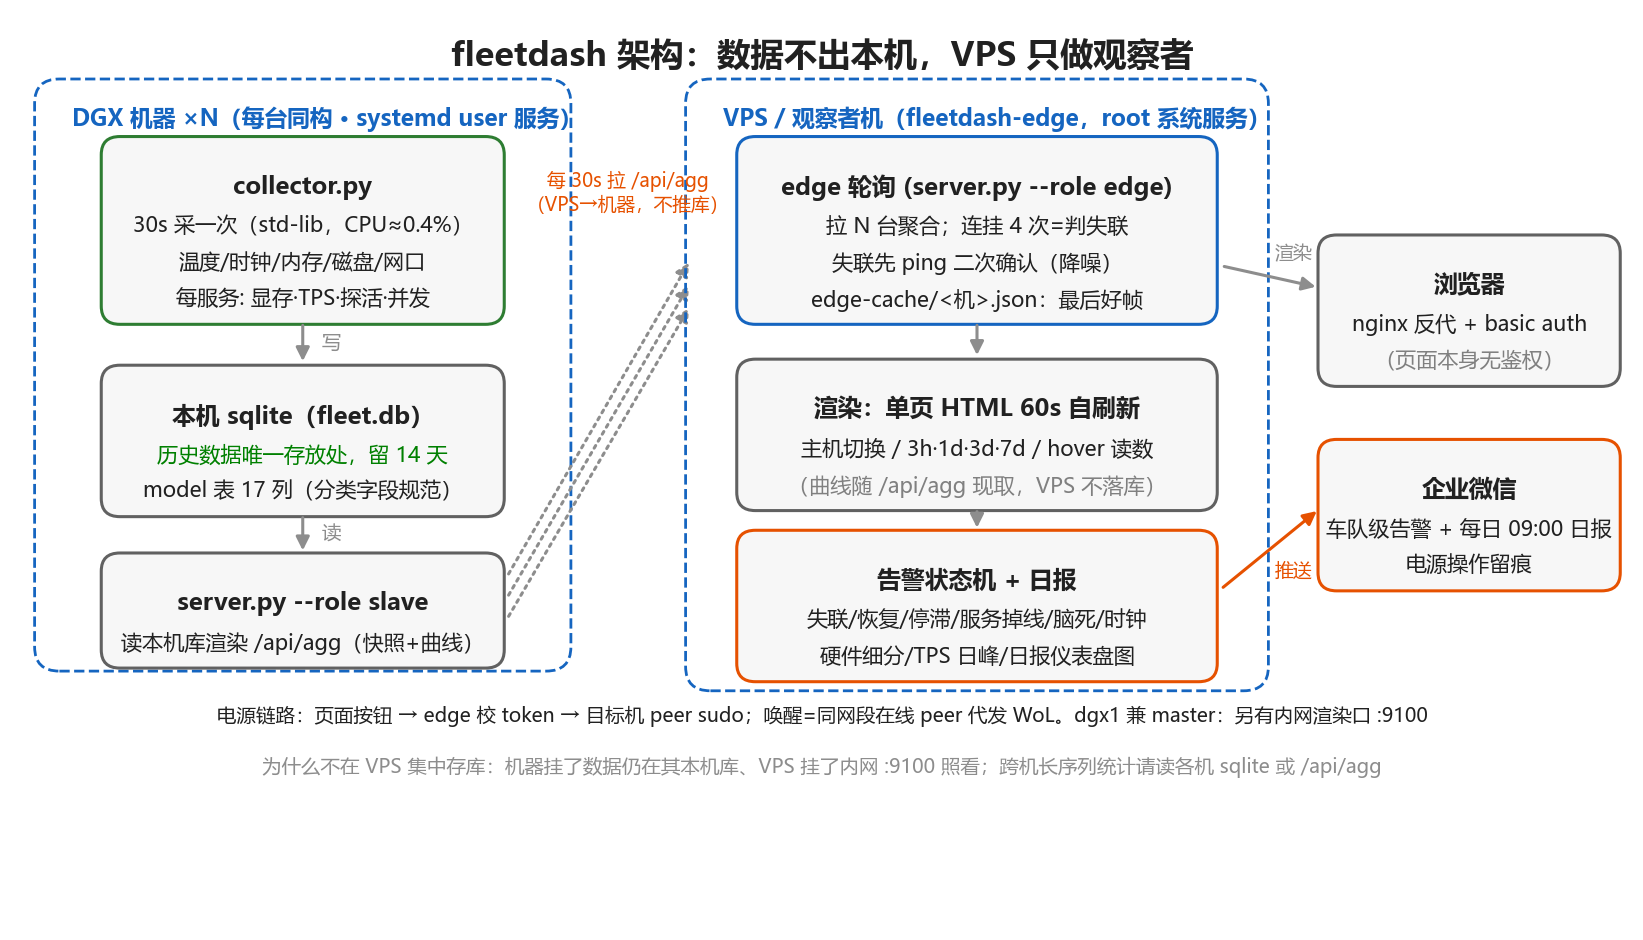
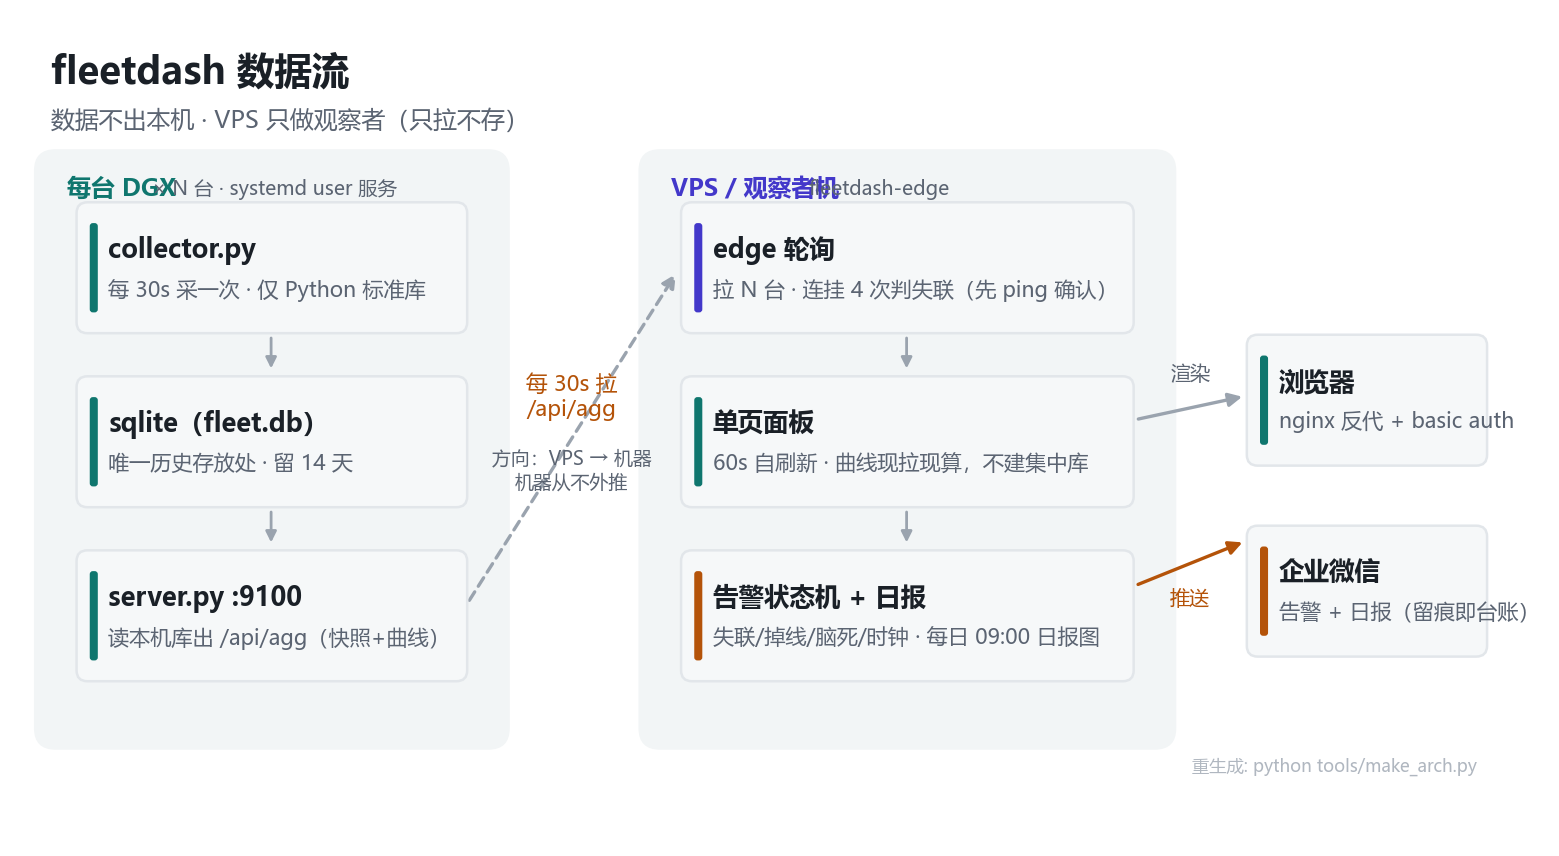
架构图重绘：卡片式三列布局，注释撤出图外
去掉虚线大框/骑线碎字；数据流三列=每台DGX→VPS→出口。

Changed region(s): [[0.0308, 0.1822, 1.0, 0.8201], [0.0308, 0.0304, 0.7697, 0.1519], [0.7697, 0.8808, 0.9545, 0.9112]]

diff --git a/tools/make_arch.py b/tools/make_arch.py
@@ -5,101 +5,95 @@ import os
 import matplotlib
 matplotlib.use("Agg")
 import matplotlib.pyplot as plt
-from matplotlib.patches import FancyBboxPatch, FancyArrowPatch
+from matplotlib.patches import FancyBboxPatch, Rectangle, FancyArrowPatch
 from PIL import Image
 
 plt.rcParams["font.family"] = ["Microsoft YaHei", "Noto Sans CJK SC", "sans-serif"]
 plt.rcParams["axes.unicode_minus"] = False
 
-fig, ax = plt.subplots(figsize=(10.4, 5.9), dpi=200)
-ax.set_xlim(0, 104); ax.set_ylim(0, 60); ax.axis("off")
+fig, ax = plt.subplots(figsize=(9.6, 5.3), dpi=200)
+ax.set_xlim(0, 96); ax.set_ylim(0, 53); ax.axis("off")
+fig.patch.set_facecolor("white")
 
-INK, GRAY, BLUE, GREEN, ORANGE = "#212121", "#8d8d8d", "#1565c0", "#2e7d32", "#e65100"
+INK, SUB, LINE, MUT = "#1A2027", "#5B6472", "#9AA3AE", "#B0B7C0"
+TEAL, INDIGO, AMBER = "#0F766E", "#4338CA", "#B45309"
 
-def box(x, ytop, w, title, lines, edge="#616161", fs=7.6, tf=8.6, lh=2.4):
-    """画圆角框, 高度按行数自适应, 返回底边 y。lines 项可为 (颜色, 文本)。"""
-    h = 5.0 + max(0, len(lines) - 1) * lh + 1.6
+def card(x, ytop, w, title, sub, accent=TEAL, fs=9.2, sfs=7.6):
+    h = 7.8
     ax.add_patch(FancyBboxPatch((x, ytop - h), w, h,
-                                boxstyle="round,pad=0.5,rounding_size=1.2",
-                                fc="#f7f7f7", ec=edge, lw=1.1))
-    ax.text(x + w / 2, ytop - 2.0, title, ha="center", va="top",
-            fontsize=tf, fontweight="bold", color=INK)
-    for i, ln in enumerate(lines):
-        col, txt = ln if isinstance(ln, tuple) else (INK, ln)
-        ax.text(x + w / 2, ytop - 4.7 - i * lh, txt, ha="center", va="top",
-                fontsize=fs, color=col)
+                                boxstyle="round,pad=0.35,rounding_size=0.7",
+                                fc="#F6F8F9", ec="#E2E6EA", lw=0.9, zorder=2))
+    ax.add_patch(FancyBboxPatch((x + 0.55, ytop - h + 1.05), 0.42, h - 2.1,
+                                boxstyle="round,pad=0.05,rounding_size=0.2",
+                                fc=accent, ec="none", zorder=3))
+    ax.text(x + 1.7, ytop - 1.8, title, ha="left", va="top",
+            fontsize=fs, fontweight="bold", color=INK, zorder=3)
+    ax.text(x + 1.7, ytop - 4.6, sub, ha="left", va="top",
+            fontsize=sfs, color=SUB, zorder=3)
     return ytop - h
 
-def arrow(x1, y1, x2, y2, col=GRAY, ls="-"):
+def conn(x, y1, y2):
+    ax.add_patch(FancyArrowPatch((x, y1), (x, y2), arrowstyle="-|>",
+                                 mutation_scale=8, color=LINE, lw=1.0, zorder=1))
+
+def flow(x1, y1, x2, y2, col=LINE, ls="-", lw=1.2):
     ax.add_patch(FancyArrowPatch((x1, y1), (x2, y2), arrowstyle="-|>",
-                                 mutation_scale=10, color=col, lw=1.1,
-                                 linestyle=ls, shrinkA=2, shrinkB=2))
+                                 mutation_scale=10, color=col, lw=lw,
+                                 linestyle=ls, zorder=1))
 
-def zone(x, y0, w, h, title, col=BLUE):
-    """虚线分区框 + 框内左上角标题。"""
-    ax.add_patch(FancyBboxPatch((x, y0), w, h, boxstyle="round,pad=0.8,rounding_size=1.6",
-                                fc="none", ec=col, lw=1.0, linestyle="--"))
-    ax.text(x + 1.6, y0 + h - 1.0, title, ha="left", va="top",
-            fontsize=8.2, fontweight="bold", color=col)
+def band(x, y0, w, h, name, rest, col):
+    ax.add_patch(FancyBboxPatch((x, y0), w, h,
+                                boxstyle="round,pad=0.6,rounding_size=1.4",
+                                fc="#F2F5F6", ec="none", zorder=0))
+    ax.text(x + 1.5, y0 + h - 1.2, name, ha="left", va="top",
+            fontsize=8.6, fontweight="bold", color=col)
+    name_w = sum(1.06 if ord(c) > 0x2E80 else 0.62 for c in name)
+    ax.text(x + 1.5 + name_w + 0.9, y0 + h - 1.32, rest, ha="left",
+            va="top", fontsize=7.0, color=SUB)
 
-# 标题（两个 zone 顶边=55, 标题占 56..58.4, 不重叠）
-ax.text(52, 58.4, "fleetdash 架构：数据不出本机，VPS 只做观察者", ha="center", va="top",
-        fontsize=12, fontweight="bold", color=INK)
+# ── 标题（左上, 编辑式）──
+ax.text(2, 50.8, "fleetdash 数据流", ha="left", va="top",
+        fontsize=13.5, fontweight="bold", color=INK)
+ax.text(2, 47.2, "数据不出本机 · VPS 只做观察者（只拉不存）", ha="left",
+        va="top", fontsize=8.6, color=SUB)
 
-# ── 左区: DGX 机器群 (x2..35, y17.5..55) ──
-zone(2, 17.5, 33, 37.5, "DGX 机器 ×N（每台同构 · systemd user 服务）")
-b1 = box(6, 51.5, 25, "collector.py",
-         ["30s 采一次（std-lib，CPU≈0.4%）", "温度/时钟/内存/磁盘/网口",
-          "每服务: 显存·TPS·探活·并发"], edge=GREEN)        # 底 40.1
-arrow(18.5, b1 - 0.2, 18.5, 36.8)
-ax.text(19.7, 38.4, "写", fontsize=7, color=GRAY, va="center")
-b2 = box(6, 36.4, 25, "本机 sqlite（fleet.db）",
-         [("GREEN", "历史数据唯一存放处，留 14 天"), "model 表 17 列（分类字段规范）"])   # 底 27.4
-arrow(18.5, b2 - 0.2, 18.5, 24.3)
-ax.text(19.7, 25.8, "读", fontsize=7, color=GRAY, va="center")
-box(6, 24.0, 25, "server.py --role slave",
-    ["读本机库渲染 /api/agg（快照+曲线）"])                # 底 17.4, 区内
+# ── 列 1: 每台 DGX ──
+band(1.5, 6.2, 29.5, 37.8, "每台 DGX", "× N 台 · systemd user 服务", TEAL)
+a1 = card(4, 40.8, 24.5, "collector.py", "每 30s 采一次 · 仅 Python 标准库")
+conn(16.2, a1 - 0.3, 30.0)
+a2 = card(4, 29.5, 24.5, "sqlite（fleet.db）", "唯一历史存放处 · 留 14 天")
+conn(16.2, a2 - 0.3, 18.7)
+a3 = card(4, 18.2, 24.5, "server.py :9100", "读本机库出 /api/agg（快照+曲线）")
 
-# ── 中间缝: 拉取箭头 + 标注（标注放上方空带 y46..51, 不压箭头）──
-for ym, yp in ((20.0, 41.0), (21.4, 42.5), (22.8, 44.0)):
-    arrow(31.6, ym, 43.6, yp, GRAY, ls=":")
-ax.text(39.5, 49.8, "每 30s 拉 /api/agg\n（VPS→机器，不推库）", ha="center",
-        va="top", fontsize=6.7, color=ORANGE)
+# ── 拉取（方向: VPS→机器）──
+flow(28.8, 15.0, 42.5, 36.8, col=LINE, ls=(0, (3, 2)))
+ax.text(35.6, 28.5, "每 30s 拉\n/api/agg", ha="center", va="center",
+        fontsize=7.8, color=AMBER)
+ax.text(35.6, 25.2, "方向：VPS → 机器\n机器从不外推", ha="center", va="top",
+        fontsize=6.8, color=SUB)
 
-# ── 右区: VPS edge (x44..80, y16.2..55) ──
-zone(44, 16.2, 36, 38.8, "VPS / 观察者机（fleetdash-edge，root 系统服务）")
-c1 = box(47, 51.5, 30, "edge 轮询 (server.py --role edge)",
-         ["拉 N 台聚合；连挂 4 次=判失联", "失联先 ping 二次确认（降噪）",
-          "edge-cache/<机>.json：最后好帧"], edge=BLUE)     # 底 40.1
-arrow(62, c1 - 0.2, 62, 37.2)
-c2 = box(47, 36.8, 30, "渲染：单页 HTML 60s 自刷新",
-         ["主机切换 / 3h·1d·3d·7d / hover 读数",
-          ("GRAY", "（曲线随 /api/agg 现取，VPS 不落库）")],   # 底 27.8
-         )
-arrow(62, c2 - 0.2, 62, 25.8)
-box(47, 25.5, 30, "告警状态机 + 日报",
-    ["失联/恢复/停滞/服务掉线/脑死/时钟", "硬件细分/TPS 日峰/日报仪表盘图"],
-    edge=ORANGE)                                            # 底 15.7, 区内
+# ── 列 2: VPS ──
+band(40.5, 6.2, 33.5, 37.8, "VPS / 观察者机", "fleetdash-edge", INDIGO)
+b1 = card(43, 40.8, 28.5, "edge 轮询", "拉 N 台 · 连挂 4 次判失联（先 ping 确认）", INDIGO)
+conn(57.2, b1 - 0.3, 30.0)
+b2 = card(43, 29.5, 28.5, "单页面板", "60s 自刷新 · 曲线现拉现算，不建集中库")
+conn(57.2, b2 - 0.3, 18.7)
+b3 = card(43, 18.2, 28.5, "告警状态机 + 日报", "失联/掉线/脑死/时钟 · 每日 09:00 日报图", AMBER)
 
-# ── 最右: 出口 ──
-box(84.5, 45.0, 18.5, "浏览器",
-    ["nginx 反代 + basic auth", ("GRAY", "（页面本身无鉴权）")])
-box(84.5, 31.5, 18.5, "企业微信",
-    ["车队级告警 + 每日 09:00 日报", "电源操作留痕"], edge=ORANGE)
-arrow(77.6, 43.5, 84.2, 42.0)
-ax.text(82.4, 43.9, "渲染", ha="center", fontsize=6.8, color=GRAY)
-arrow(77.6, 22.0, 84.2, 27.5, ORANGE)
-ax.text(82.4, 23.0, "推送", ha="center", fontsize=6.8, color=ORANGE)
+# ── 列 3: 出口 ──
+c1 = card(79.5, 32.2, 14.8, "浏览器", "nginx 反代 + basic auth")
+c2 = card(79.5, 19.8, 14.8, "企业微信", "告警 + 日报（留痕即台账）", AMBER)
+flow(71.8, 27.0, 79.2, 28.6)
+ax.text(75.5, 29.6, "渲染", ha="center", fontsize=7.2, color=SUB)
+flow(71.8, 16.2, 79.2, 19.2, col=AMBER)
+ax.text(75.5, 15.0, "推送", ha="center", fontsize=7.2, color=AMBER)
 
-# ── 底部脚注（区底≥15, 注释放 13.4 以下）──
-ax.text(52, 13.4, "电源链路：页面按钮 → edge 校 token → 目标机 peer sudo；唤醒=同网段在线 peer 代发 WoL。"
-                   "dgx1 兼 master：另有内网渲染口 :9100", ha="center", fontsize=7.0, color=INK)
-ax.text(52, 10.0, "为什么不在 VPS 集中存库：机器挂了数据仍在其本机库、VPS 挂了内网 :9100 照看；"
-                   "跨机长序列统计请读各机 sqlite 或 /api/agg", ha="center", fontsize=7.0, color=GRAY)
+ax.text(94, 4.2, "重生成: python tools/make_arch.py", ha="right",
+        fontsize=6.2, color=MUT)
 
 out = os.path.join(os.path.dirname(os.path.dirname(os.path.abspath(__file__))),
                    "assets", "architecture.png")
 os.makedirs(os.path.dirname(out), exist_ok=True)
-fig.savefig(out, bbox_inches="tight", pad_inches=0.08, facecolor="white")
+fig.savefig(out, bbox_inches="tight", pad_inches=0.10, facecolor="white")
 im = Image.open(out); im.save(out, dpi=(96, 96))
 print("saved", out, im.size)
